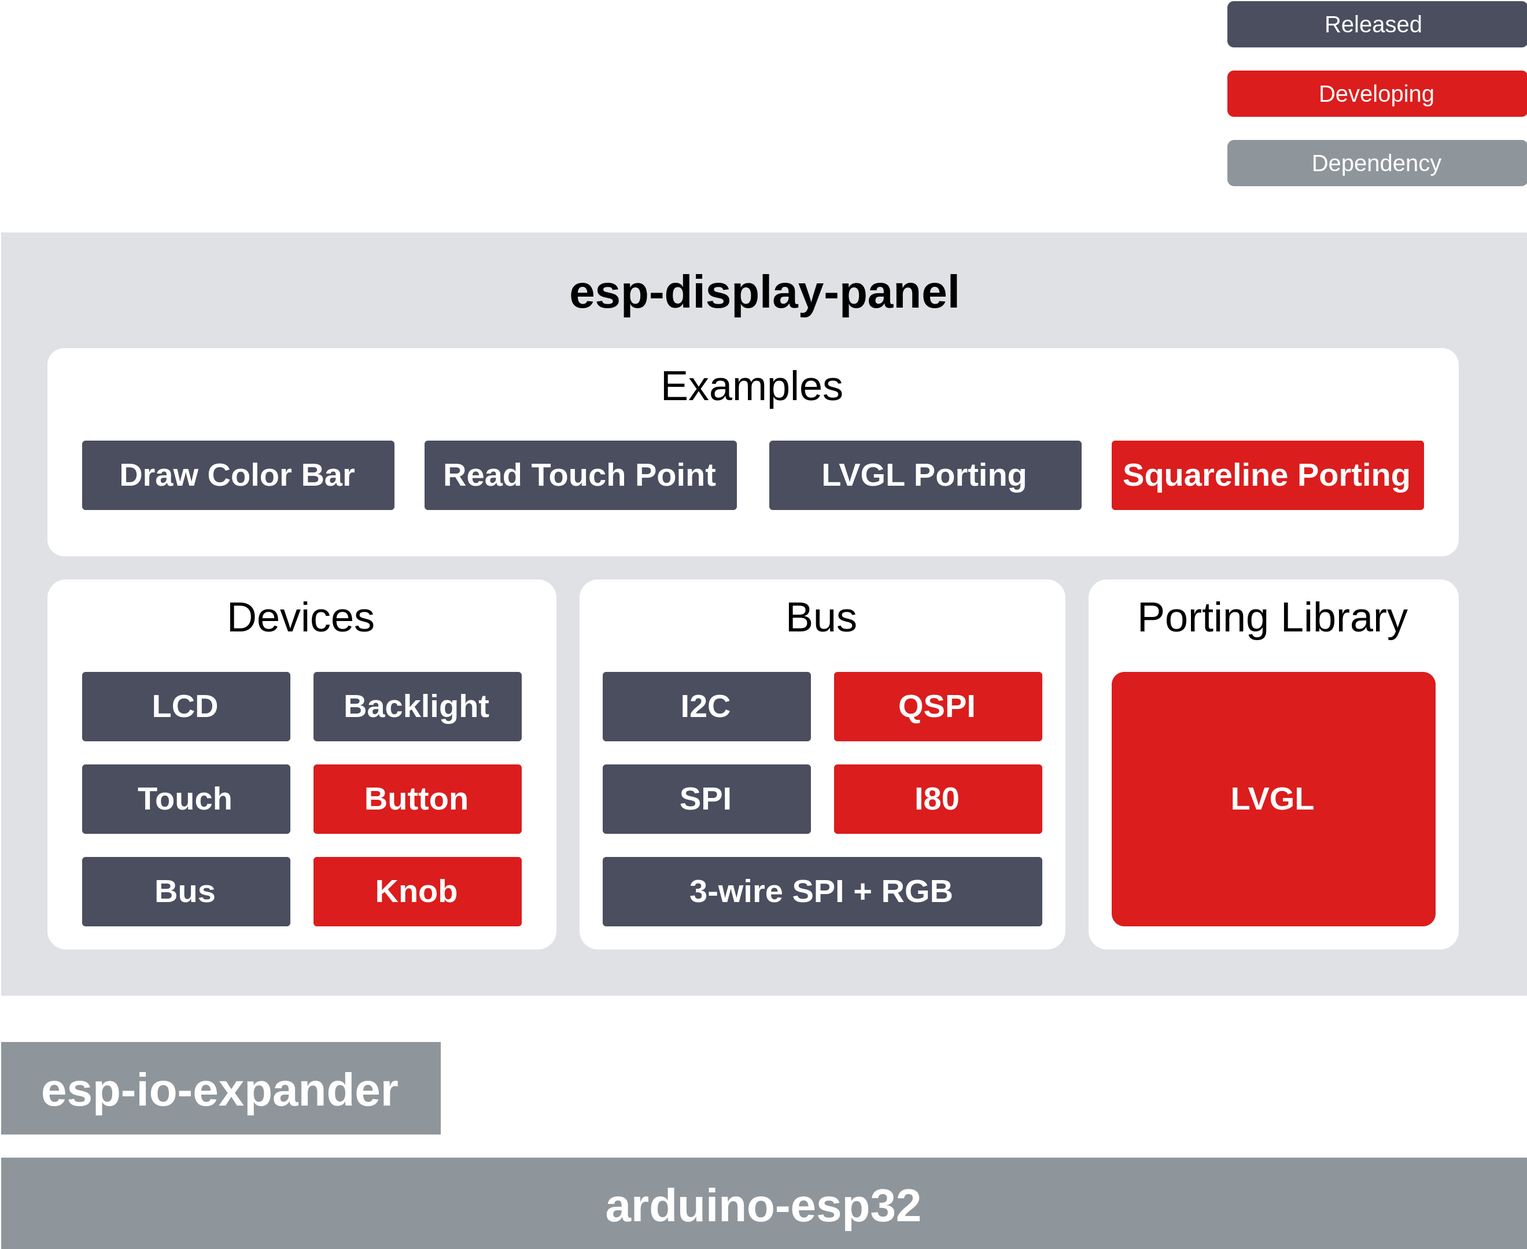
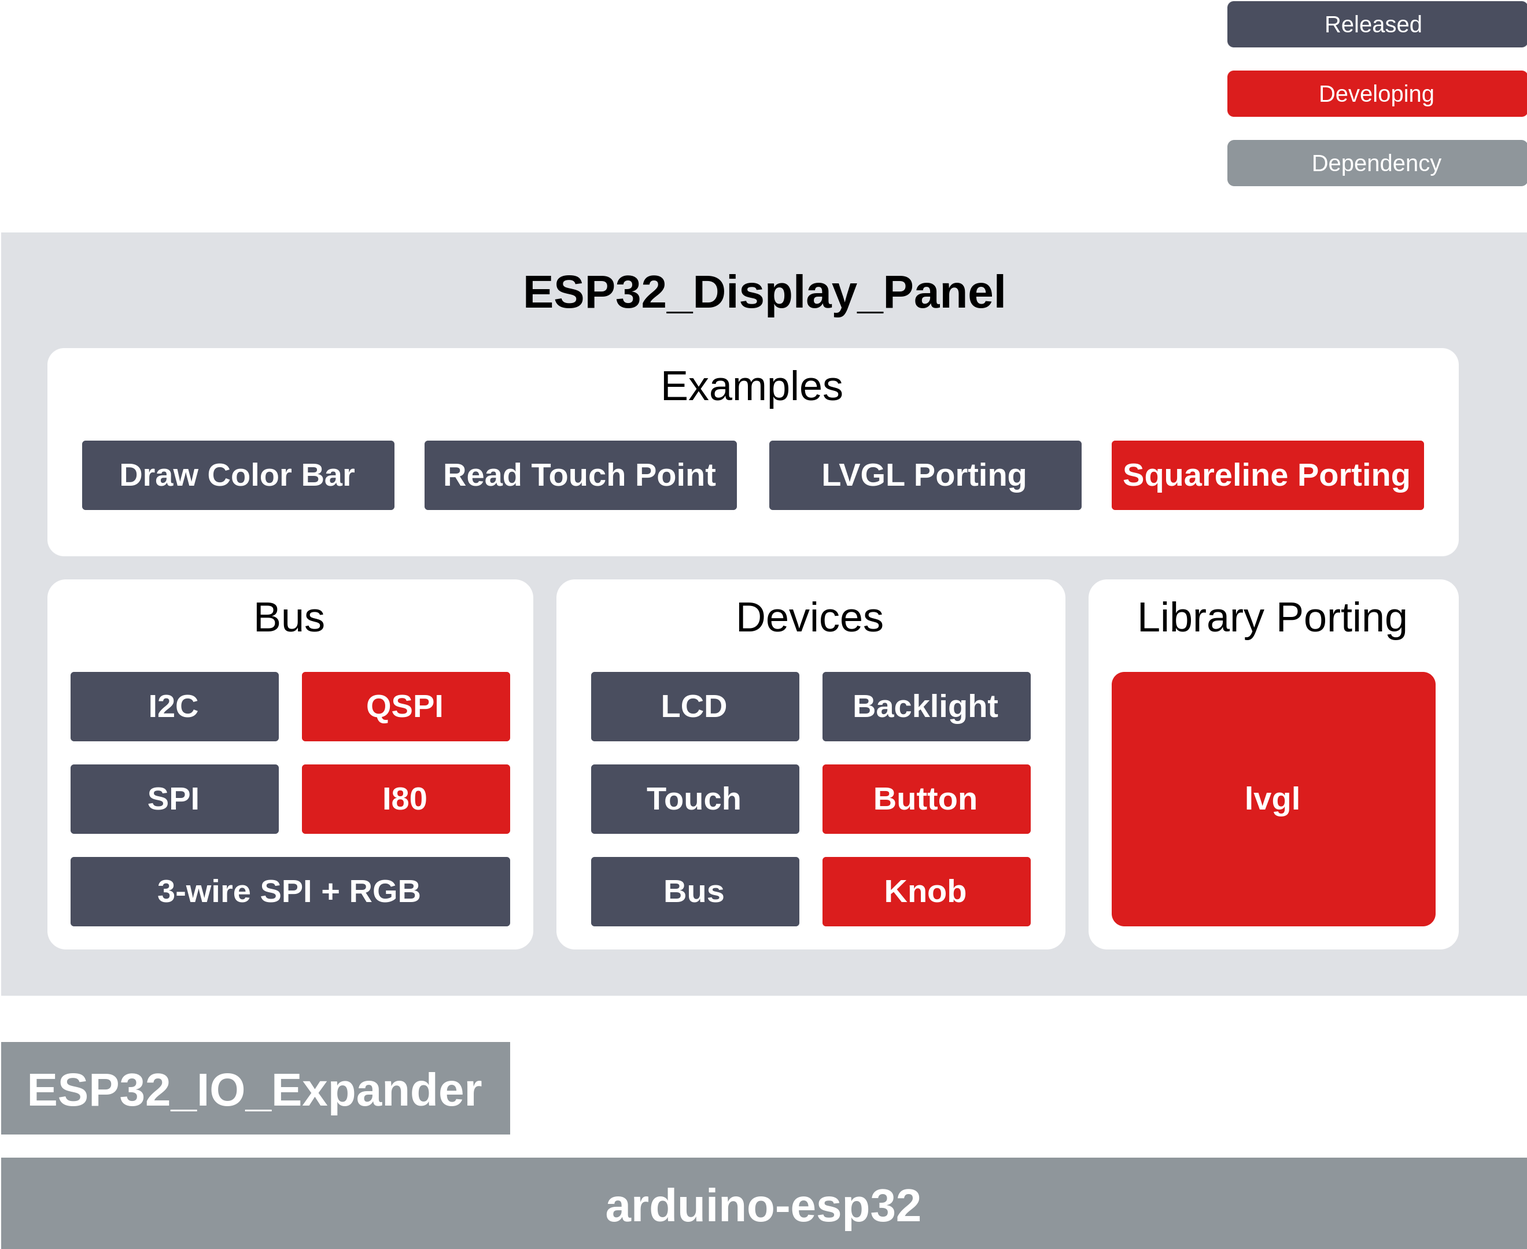
rename library

diff --git a/README.md b/README.md
@@ -1,16 +1,16 @@
-[![Arduino Lint](https://github.com/esp-arduino-libs/esp-display-panel/actions/workflows/arduino_lint.yml/badge.svg)](https://github.com/esp-arduino-libs/esp-display-panel/actions/workflows/arduino_lint.yml) [![pre-commit](https://github.com/esp-arduino-libs/esp-display-panel/actions/workflows/pre-commit.yml/badge.svg)](https://github.com/esp-arduino-libs/esp-display-panel/actions/workflows/pre-commit.yml) [![Build Test Apps](https://github.com/esp-arduino-libs/esp-display-panel/actions/workflows/build_test.yml/badge.svg)](https://github.com/esp-arduino-libs/esp-display-panel/actions/workflows/build_test.yml)
+[![Arduino Lint](https://github.com/esp-arduino-libs/ESP32_Display_Panel/actions/workflows/arduino_lint.yml/badge.svg)](https://github.com/esp-arduino-libs/ESP32_Display_Panel/actions/workflows/arduino_lint.yml) [![pre-commit](https://github.com/esp-arduino-libs/ESP32_Display_Panel/actions/workflows/pre-commit.yml/badge.svg)](https://github.com/esp-arduino-libs/ESP32_Display_Panel/actions/workflows/pre-commit.yml) [![Build Test Apps](https://github.com/esp-arduino-libs/ESP32_Display_Panel/actions/workflows/build_test.yml/badge.svg)](https://github.com/esp-arduino-libs/ESP32_Display_Panel/actions/workflows/build_test.yml)
 
-# ESP Display Panel
+# ESP32_Display_Panel
 
 * [中文版](./README_CN.md)
 
-esp-display-panel is an Arduino library designed for driving display screens using ESP32 SoCs. It can be used not only for developing various [Espressif development boards](#espressif-development-boards) but also for custom board development.
+ESP32_Display_Panel is an Arduino library designed for driving display screens using ESP32 SoCs. It can be used not only for developing various [Espressif development boards](#espressif-development-boards) but also for custom board development.
 
-esp-display-panel encapsulates various components from the [Espressif Components Registry](https://components.espressif.com/). It is developed based on [arduino-esp32](https://github.com/espressif/arduino-esp32) and can be easily downloaded and integrated into the Arduino IDE.
+ESP32_Display_Panel encapsulates various components from the [Espressif Components Registry](https://components.espressif.com/). It is developed based on [arduino-esp32](https://github.com/espressif/arduino-esp32) and can be easily downloaded and integrated into the Arduino IDE.
 
 ## Overview
 
-The block diagram of esp-display-panel is shown in the figure below, it primarily includes the following features:
+The block diagram of ESP32_Display_Panel is shown in the figure below, it primarily includes the following features:
 
 * Supports various Espressif development boards.
 * Supports custom board.
@@ -20,9 +20,11 @@ The block diagram of esp-display-panel is shown in the figure below, it primaril
 
 ## Dependencies Version
 
-| **esp-display-panel** | **arduino-esp32** | **esp-io-expander** |
-| :-------------------: | :---------------: | :-----------------: |
-|        v0.x.x         |     >= v2.0.9     |      >= v0.0.1      |
+|                                 **Name**                                 | **Version** |
+| ------------------------------------------------------------------------ | ----------- |
+| ESP32_Display_Panel                                                      | v0.x.x      |
+| [ESP32_IO_Expander](https://github.com/esp-arduino-libs/esp-io-expander) | >= v0.0.1   |
+| [arduino-esp32](https://github.com/espressif/arduino-esp32)              | >= v2.0.9   |
 
 ## Supported Boards & Drivers
 
@@ -77,7 +79,7 @@ For information on how to use the library in the Arduino IDE, please refer to th
 
 ### Examples
 
-Here are some examples of using esp-display-panel. To access them in the Arduino IDE, navigate to `File -> Examples -> esp-display-panel`. **Each example sketch and README offer comprehensive usage instructions. Please review them before compiling.**
+Here are some examples of using ESP32_Display_Panel. To access them in the Arduino IDE, navigate to `File -> Examples -> ESP32_Display_Panel`. **Each example sketch and README offer comprehensive usage instructions. Please review them before compiling.**
 
 * Panel:
   * [Draw Color Bar](examples/Panel/DrawColorBar/): This example demonstrates how to draw simple color bar.
@@ -87,20 +89,20 @@ Here are some examples of using esp-display-panel. To access them in the Arduino
 
 ### Detailed Usage
 
-The following provides a comprehensive guide on how to use esp-display-panel.
+The following provides a comprehensive guide on how to use ESP32_Display_Panel.
 
-### Configure esp-display-panel
+### Configure ESP32_Display_Panel
 
-esp-display-panel has its own configuration file called `ESP_Panel_Conf.h`. After installing esp-display-panel, follow these configuration steps:
+ESP32_Display_Panel has its own configuration file called `ESP_Panel_Conf.h`. After installing ESP32_Display_Panel, follow these configuration steps:
 
 1. Navigate to the directory where Arduino libraries are installed.
-2. Navigate to the `esp-display-panel` folder, copy `ESP_Panel_Conf_Template.h` and place the copy outside the `esp-display-panel` folder at the same directory level. Then rename the copied file as `ESP_Panel_Conf.h`.
+2. Navigate to the `ESP32_Display_Panel` folder, copy `ESP_Panel_Conf_Template.h` and place the copy outside the `ESP32_Display_Panel` folder at the same directory level. Then rename the copied file as `ESP_Panel_Conf.h`.
 3. Finally, the layout of the Arduino Libraries folder with `ESP_Panel_Conf.h` appear as follows:
 
 ```
 Arduino
     |-libraries
-        |-esp-display-panel
+        |-ESP32_Display_Panel
         |-other_lib_1
         |-other_lib_2
         |-ESP_Panel_Conf.h
@@ -125,7 +127,7 @@ Arduino
 
 #### For Unsupported Board
 
-Since esp-display-panel library can only utilize the internally supported drivers, please ensure that the **LCD**, **Touch**, and **Bus** for the custom board are present in the list of [Supported Drivers](#supported-boards--drivers).
+Since ESP32_Display_Panel library can only utilize the internally supported drivers, please ensure that the **LCD**, **Touch**, and **Bus** for the custom board are present in the list of [Supported Drivers](#supported-boards--drivers).
 
 1. Open `ESP_Panel_Conf.h` and set the macro `ESP_PANEL_USE_SUPPORTED_BOARD` to `0`, as shown below:
 
@@ -272,7 +274,7 @@ Since esp-display-panel library can only utilize the internally supported driver
 ...
 ```
 
-3. After configuring the `ESP_Panel_Conf.h` file, please navigate to the "[Use APIs](#use-apis)" section to check the functions provided by esp-display-panel.
+3. After configuring the `ESP_Panel_Conf.h` file, please navigate to the "[Use APIs](#use-apis)" section to check the functions provided by ESP32_Display_Panel.
 
 ### Use APIs
 

diff --git a/README_CN.md b/README_CN.md
@@ -1,16 +1,16 @@
-[![Arduino Lint](https://github.com/esp-arduino-libs/esp-display-panel/actions/workflows/arduino_lint.yml/badge.svg)](https://github.com/esp-arduino-libs/esp-display-panel/actions/workflows/arduino_lint.yml) [![pre-commit](https://github.com/esp-arduino-libs/esp-display-panel/actions/workflows/pre-commit.yml/badge.svg)](https://github.com/esp-arduino-libs/esp-display-panel/actions/workflows/pre-commit.yml) [![Build Test Apps](https://github.com/esp-arduino-libs/esp-display-panel/actions/workflows/build_test.yml/badge.svg)](https://github.com/esp-arduino-libs/esp-display-panel/actions/workflows/build_test.yml)
+[![Arduino Lint](https://github.com/esp-arduino-libs/ESP32_Display_Panel/actions/workflows/arduino_lint.yml/badge.svg)](https://github.com/esp-arduino-libs/ESP32_Display_Panel/actions/workflows/arduino_lint.yml) [![pre-commit](https://github.com/esp-arduino-libs/ESP32_Display_Panel/actions/workflows/pre-commit.yml/badge.svg)](https://github.com/esp-arduino-libs/ESP32_Display_Panel/actions/workflows/pre-commit.yml) [![Build Test Apps](https://github.com/esp-arduino-libs/ESP32_Display_Panel/actions/workflows/build_test.yml/badge.svg)](https://github.com/esp-arduino-libs/ESP32_Display_Panel/actions/workflows/build_test.yml)
 
 # ESP Display Panel
 
 * [English Version](./README.md)
 
-esp-display-panel 是为 ESP32 SoCs 设计用来驱动显示屏幕的 Arduino 库。它不仅可以用于开发多款[乐鑫开发板](#乐鑫开发板)，也适用于开发自定义的开发板。
+ESP32_Display_Panel 是为 ESP32 SoCs 设计用来驱动显示屏幕的 Arduino 库。它不仅可以用于开发多款[乐鑫开发板](#乐鑫开发板)，也适用于开发自定义的开发板。
 
-esp-display-panel 封装了多种[乐鑫组件库](https://components.espressif.com/)中相关的组件，它需要基于 [arduino-esp32](https://github.com/espressif/arduino-esp32) 进行开发，并且可以直接从 Arduino IDE 中下载获取。
+ESP32_Display_Panel 封装了多种[乐鑫组件库](https://components.espressif.com/)中相关的组件，它需要基于 [arduino-esp32](https://github.com/espressif/arduino-esp32) 进行开发，并且可以直接从 Arduino IDE 中下载获取。
 
 ## 概述
 
-esp-display-panel 的功能框图如下所示，主要包含了以下功能：
+ESP32_Display_Panel 的功能框图如下所示，主要包含了以下功能：
 
 * 支持多款乐鑫开发板。
 * 支持自定义的开发板。
@@ -20,9 +20,11 @@ esp-display-panel 的功能框图如下所示，主要包含了以下功能：
 
 ## 依赖项版本
 
-| **esp-display-panel** | **arduino-esp32** | **esp-io-expander** |
-| :-------------------: | :---------------: | :-----------------: |
-|        v0.x.x         |     >= v2.0.9     |      >= v0.0.1      |
+|                                 **名称**                                 | **版本**  |
+| ------------------------------------------------------------------------ | --------- |
+| ESP32_Display_Panel                                                      | v0.x.x    |
+| [ESP32_IO_Expander](https://github.com/esp-arduino-libs/esp-io-expander) | >= v0.0.1 |
+| [arduino-esp32](https://github.com/espressif/arduino-esp32)              | >= v2.0.9 |
 
 ## 支持的开发板和驱动
 
@@ -77,7 +79,7 @@ esp-display-panel 的功能框图如下所示，主要包含了以下功能：
 
 ### 示例
 
-以下是使用 esp-display-panel 的一些示例程序。在 Arduino IDE 中，可以通过点击菜单栏中的 `File -> Examples -> esp-display-panel` 来使用它们。 **每个示例及其目录下的 README 文件都提供了详细的使用说明，请在编译之前查看它们。**
+以下是使用 ESP32_Display_Panel 的一些示例程序。在 Arduino IDE 中，可以通过点击菜单栏中的 `File -> Examples -> ESP32_Display_Panel` 来使用它们。 **每个示例及其目录下的 README 文件都提供了详细的使用说明，请在编译之前查看它们。**
 
 * Panel:
   * [Draw Color Bar](examples/Panel/DrawColorBar/): 此示例演示如何绘制简单的彩条。
@@ -87,20 +89,20 @@ esp-display-panel 的功能框图如下所示，主要包含了以下功能：
 
 ### 详细使用说明
 
-以下是如何使用 esp-display-panel 的详细说明。
+以下是如何使用 ESP32_Display_Panel 的详细说明。
 
-### 配置 esp-display-panel
+### 配置 ESP32_Display_Panel
 
-esp-display-panel 具有自己的配置文件，称为 `ESP_Panel_Conf.h`。在安装 esp-display-panel 后，按照以下配置步骤进行操作：
+ESP32_Display_Panel 具有自己的配置文件，称为 `ESP_Panel_Conf.h`。在安装 ESP32_Display_Panel 后，按照以下配置步骤进行操作：
 
 1. 进入 Arduino 存放库的目录。
-2. 进入 `esp-display-panel` 文件夹，将 `ESP_Panel_Conf_Template.h` 复制并放置在 `esp-display-panel` 文件夹之外。它应该与 `esp-display-panel` 文件夹在同一级别，然后将其重命名为 `ESP_Panel_Conf.h`。
+2. 进入 `ESP32_Display_Panel` 文件夹，将 `ESP_Panel_Conf_Template.h` 复制并放置在 `ESP32_Display_Panel` 文件夹之外。它应该与 `ESP32_Display_Panel` 文件夹在同一级别，然后将其重命名为 `ESP_Panel_Conf.h`。
 3. 最终，包含 `ESP_Panel_Conf.h` 的 Arduino 库所在文件夹的布局应如下所示：
 
 ```
 Arduino
     |-libraries
-        |-esp-display-panel
+        |-ESP32_Display_Panel
         |-other_lib_1
         |-other_lib_2
         |-ESP_Panel_Conf.h
@@ -121,11 +123,11 @@ Arduino
 ...
 ```
 
-3. 之后，请跳转至“[使用接口](#使用接口)”一节使用 esp-display-panel 提供的功能。
+3. 之后，请跳转至“[使用接口](#使用接口)”一节使用 ESP32_Display_Panel 提供的功能。
 
 #### 对于不支持的开发板
 
-由于 esp-display-panel 只能使用内部支持的驱动程序，请确认自定义开发板的 **LCD**、**触摸**和**接口总线**位于[支持的驱动程序列表](#supported-boards--drivers)中。
+由于 ESP32_Display_Panel 只能使用内部支持的驱动程序，请确认自定义开发板的 **LCD**、**触摸**和**接口总线**位于[支持的驱动程序列表](#supported-boards--drivers)中。
 
 1. 打开 `ESP_Panel_Conf.h` 文件，将宏 `ESP_PANEL_USE_SUPPORTED_BOARD` 设置为 `0`，如下所示：
 
@@ -272,7 +274,7 @@ Arduino
 ...
 ```
 
-3. 配置好 `ESP_Panel_Conf.h` 文件后，请跳转至“[使用接口](#使用接口)”一节查看 esp-display-panel 提供的函数。
+3. 配置好 `ESP_Panel_Conf.h` 文件后，请跳转至“[使用接口](#使用接口)”一节查看 ESP32_Display_Panel 提供的函数。
 
 ### 使用接口
 

diff --git a/examples/LVGL/Porting/README.md b/examples/LVGL/Porting/README.md
@@ -4,26 +4,26 @@ The example demonstrates how to port LVGL.
 
 ## How to Use
 
-To use this example, please firstly install esp-display-panel (includes its dependent libraries) and lvgl (v8.3.x) library, then follow the steps to configure them.
+To use this example, please firstly install ESP32_Display_Panel (includes its dependent libraries) and lvgl (v8.3.x) library, then follow the steps to configure them.
 
-### Configure esp-display-panel
+### Configure ESP32_Display_Panel
 
-esp-display-panel has its own configuration file called `ESP_Panel_Conf.h`. After installing esp-display-panel, follow these configuration steps:
+ESP32_Display_Panel has its own configuration file called `ESP_Panel_Conf.h`. After installing ESP32_Display_Panel, follow these configuration steps:
 
 1. Navigate to the directory where Arduino libraries are installed.
-2. Navigate to the `esp-display-panel` folder, copy `ESP_Panel_Conf_Template.h` and place the copy outside the `esp-display-panel` folder at the same directory level. Then rename the copied file as `ESP_Panel_Conf.h`.
+2. Navigate to the `ESP32_Display_Panel` folder, copy `ESP_Panel_Conf_Template.h` and place the copy outside the `ESP32_Display_Panel` folder at the same directory level. Then rename the copied file as `ESP_Panel_Conf.h`.
 3. Finally, the layout of the Arduino Libraries folder with `ESP_Panel_Conf.h` appear as follows:
 
     ```
     Arduino
         |-libraries
-            |-esp-display-panel
+            |-ESP32_Display_Panel
             |-other_lib_1
             |-other_lib_2
             |-ESP_Panel_Conf.h
     ```
 
-4. Please refer to [Supported Boards List](https://github.com/esp-arduino-libs/esp-display-panel#supported-boards--drivers) to check if the current board is compatible. If it is compatible, please navigate to the "For Supported Boards" section; Otherwise, navigate to the "For Unsupported Boards" section.
+4. Please refer to [Supported Boards List](https://github.com/esp-arduino-libs/ESP32_Display_Panel#supported-boards--drivers) to check if the current board is compatible. If it is compatible, please navigate to the "For Supported Boards" section; Otherwise, navigate to the "For Unsupported Boards" section.
 
 #### For Supported Board
 
@@ -40,7 +40,7 @@ esp-display-panel has its own configuration file called `ESP_Panel_Conf.h`. Afte
 
 #### For Unsupported Board
 
-Please refer to the [document](https://github.com/esp-arduino-libs/esp-display-panel#for-unsupported-board) for the details.
+Please refer to the [document](https://github.com/esp-arduino-libs/ESP32_Display_Panel#for-unsupported-board) for the details.
 
 ### Configure LVGL
 
@@ -105,7 +105,7 @@ Go to the `Tools` in Arduino IDE to configure the following settings:
 ```bash
 ...
 Hello LVGL! V8.3.8
-I am esp-display-panel
+I am ESP32_Display_Panel
 Starting LVGL task
 Setup done
 Loop

diff --git a/examples/Panel/DrawColorBar/README.md b/examples/Panel/DrawColorBar/README.md
@@ -4,26 +4,26 @@ The example demonstrates how to draw simple color bar.
 
 ## How to Use
 
-To use this example, please firstly install esp-display-panel and its dependent libraries, then follow the steps to configure:
+To use this example, please firstly install ESP32_Display_Panel and its dependent libraries, then follow the steps to configure:
 
-### Configure esp-display-panel
+### Configure ESP32_Display_Panel
 
-esp-display-panel has its own configuration file called `ESP_Panel_Conf.h`. After installing esp-display-panel, follow these configuration steps:
+ESP32_Display_Panel has its own configuration file called `ESP_Panel_Conf.h`. After installing ESP32_Display_Panel, follow these configuration steps:
 
 1. Navigate to the directory where Arduino libraries are installed.
-2. Navigate to the `esp-display-panel` folder, copy `ESP_Panel_Conf_Template.h` and place the copy outside the `esp-display-panel` folder at the same directory level. Then rename the copied file as `ESP_Panel_Conf.h`.
+2. Navigate to the `ESP32_Display_Panel` folder, copy `ESP_Panel_Conf_Template.h` and place the copy outside the `ESP32_Display_Panel` folder at the same directory level. Then rename the copied file as `ESP_Panel_Conf.h`.
 3. Finally, the layout of the Arduino Libraries folder with `ESP_Panel_Conf.h` appear as follows:
 
     ```
     Arduino
         |-libraries
-            |-esp-display-panel
+            |-ESP32_Display_Panel
             |-other_lib_1
             |-other_lib_2
             |-ESP_Panel_Conf.h
     ```
 
-4. Please refer to [Supported Boards List](https://github.com/esp-arduino-libs/esp-display-panel#supported-boards--drivers) to check if the current board is compatible. If it is compatible, please navigate to the "For Supported Boards" section; Otherwise, navigate to the "For Unsupported Boards" section.
+4. Please refer to [Supported Boards List](https://github.com/esp-arduino-libs/ESP32_Display_Panel#supported-boards--drivers) to check if the current board is compatible. If it is compatible, please navigate to the "For Supported Boards" section; Otherwise, navigate to the "For Unsupported Boards" section.
 
 #### For Supported Board
 
@@ -40,7 +40,7 @@ esp-display-panel has its own configuration file called `ESP_Panel_Conf.h`. Afte
 
 #### For Unsupported Board
 
-Please refer to the [document](https://github.com/esp-arduino-libs/esp-display-panel#for-unsupported-board) for the details.
+Please refer to the [document](https://github.com/esp-arduino-libs/ESP32_Display_Panel#for-unsupported-board) for the details.
 
 ### Configure Board
 
@@ -70,7 +70,7 @@ Go to the `Tools` in Arduino IDE to configure the following settings:
 ```bash
 ...
 Hello Arduino!
-I am esp-display-panel.
+I am ESP32_Display_Panel.
 Initialize panel
 Draw color bar from top to bottom, the order is B - G - R
 Setup done

diff --git a/examples/Panel/ReadTouchPoint/README.md b/examples/Panel/ReadTouchPoint/README.md
@@ -4,26 +4,26 @@ The example demonstrates how to read touch point.
 
 ## How to Use
 
-To use this example, please firstly install esp-display-panel and its dependent libraries, then follow the steps to configure:
+To use this example, please firstly install ESP32_Display_Panel and its dependent libraries, then follow the steps to configure:
 
-### Configure esp-display-panel
+### Configure ESP32_Display_Panel
 
-esp-display-panel has its own configuration file called `ESP_Panel_Conf.h`. After installing esp-display-panel, follow these configuration steps:
+ESP32_Display_Panel has its own configuration file called `ESP_Panel_Conf.h`. After installing ESP32_Display_Panel, follow these configuration steps:
 
 1. Navigate to the directory where Arduino libraries are installed.
-2. Navigate to the `esp-display-panel` folder, copy `ESP_Panel_Conf_Template.h` and place the copy outside the `esp-display-panel` folder at the same directory level. Then rename the copied file as `ESP_Panel_Conf.h`.
+2. Navigate to the `ESP32_Display_Panel` folder, copy `ESP_Panel_Conf_Template.h` and place the copy outside the `ESP32_Display_Panel` folder at the same directory level. Then rename the copied file as `ESP_Panel_Conf.h`.
 3. Finally, the layout of the Arduino Libraries folder with `ESP_Panel_Conf.h` appear as follows:
 
     ```
     Arduino
         |-libraries
-            |-esp-display-panel
+            |-ESP32_Display_Panel
             |-other_lib_1
             |-other_lib_2
             |-ESP_Panel_Conf.h
     ```
 
-4. Please refer to [Supported Boards List](https://github.com/esp-arduino-libs/esp-display-panel#supported-boards--drivers) to check if the current board is compatible. If it is compatible, please navigate to the "For Supported Boards" section; Otherwise, navigate to the "For Unsupported Boards" section.
+4. Please refer to [Supported Boards List](https://github.com/esp-arduino-libs/ESP32_Display_Panel#supported-boards--drivers) to check if the current board is compatible. If it is compatible, please navigate to the "For Supported Boards" section; Otherwise, navigate to the "For Unsupported Boards" section.
 
 #### For Supported Board
 
@@ -40,7 +40,7 @@ esp-display-panel has its own configuration file called `ESP_Panel_Conf.h`. Afte
 
 #### For Unsupported Board
 
-Please refer to the [document](https://github.com/esp-arduino-libs/esp-display-panel#for-unsupported-board) for the details.
+Please refer to the [document](https://github.com/esp-arduino-libs/ESP32_Display_Panel#for-unsupported-board) for the details.
 
 ### Configure Board
 
@@ -70,7 +70,7 @@ Go to the `Tools` in Arduino IDE to configure the following settings:
 ```bash
 ...
 Hello Arduino!
-I am esp-display-panel.
+I am ESP32_Display_Panel.
 Initialize panel
 Setup done
 Touch point: x 479, y 476
